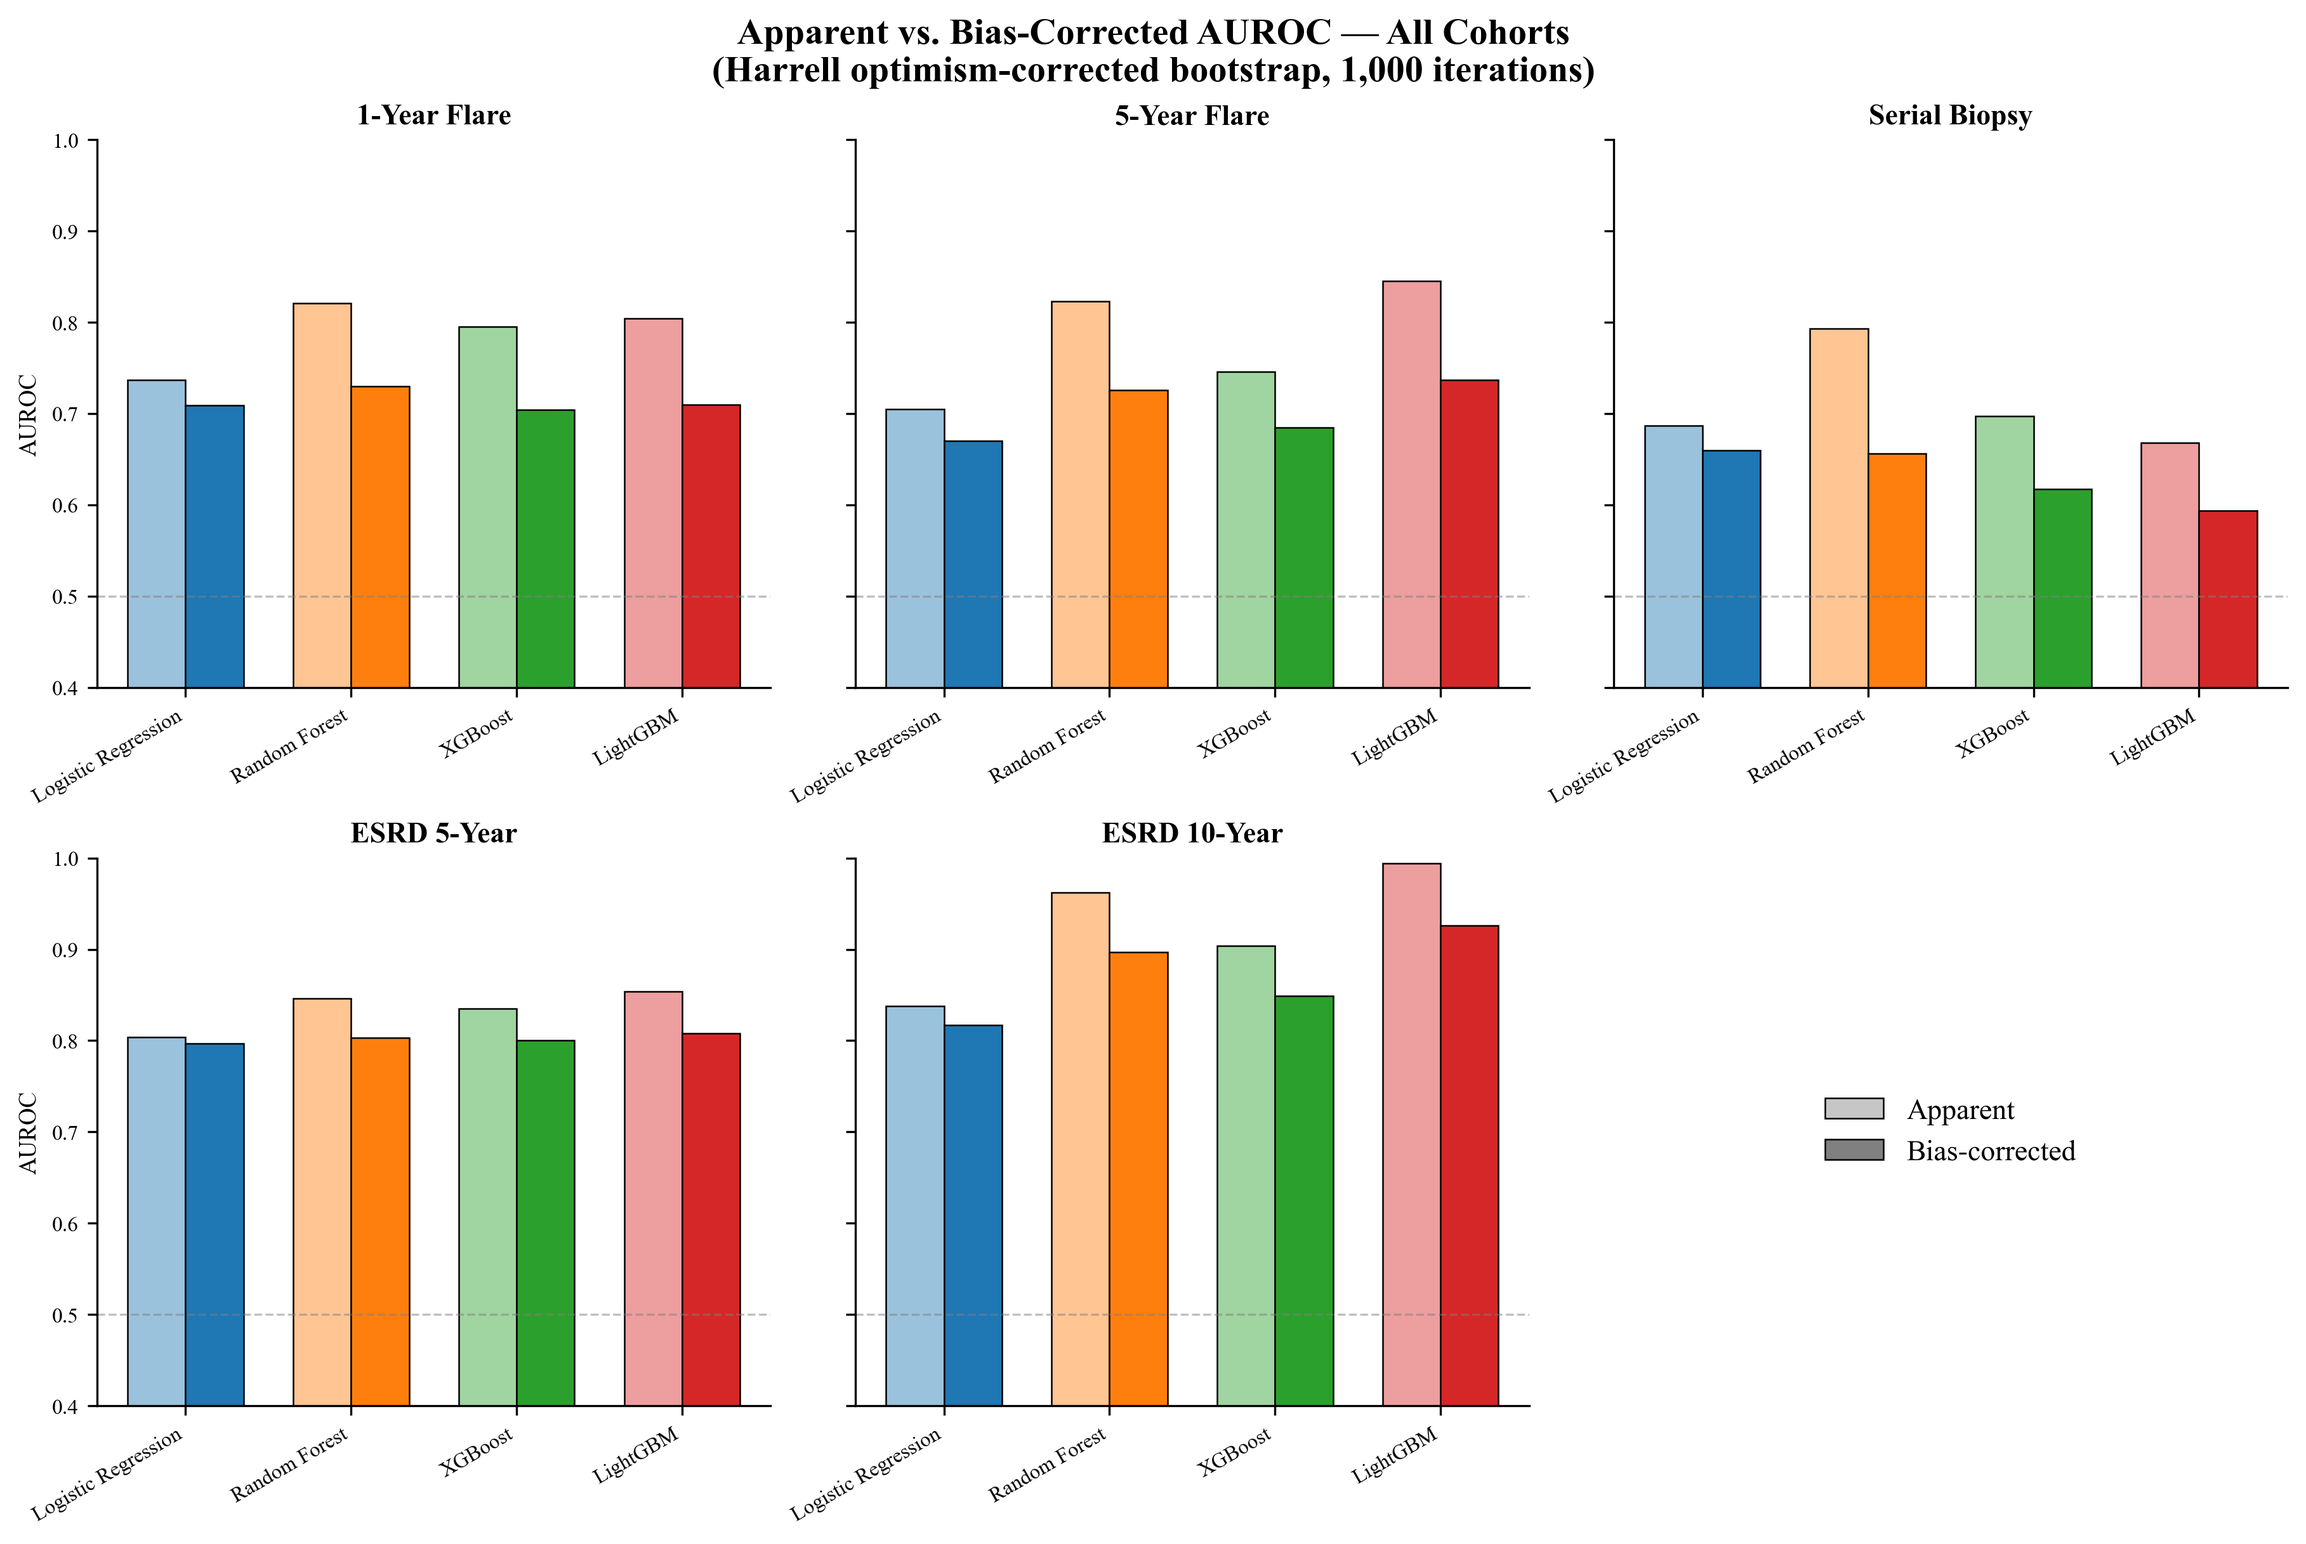
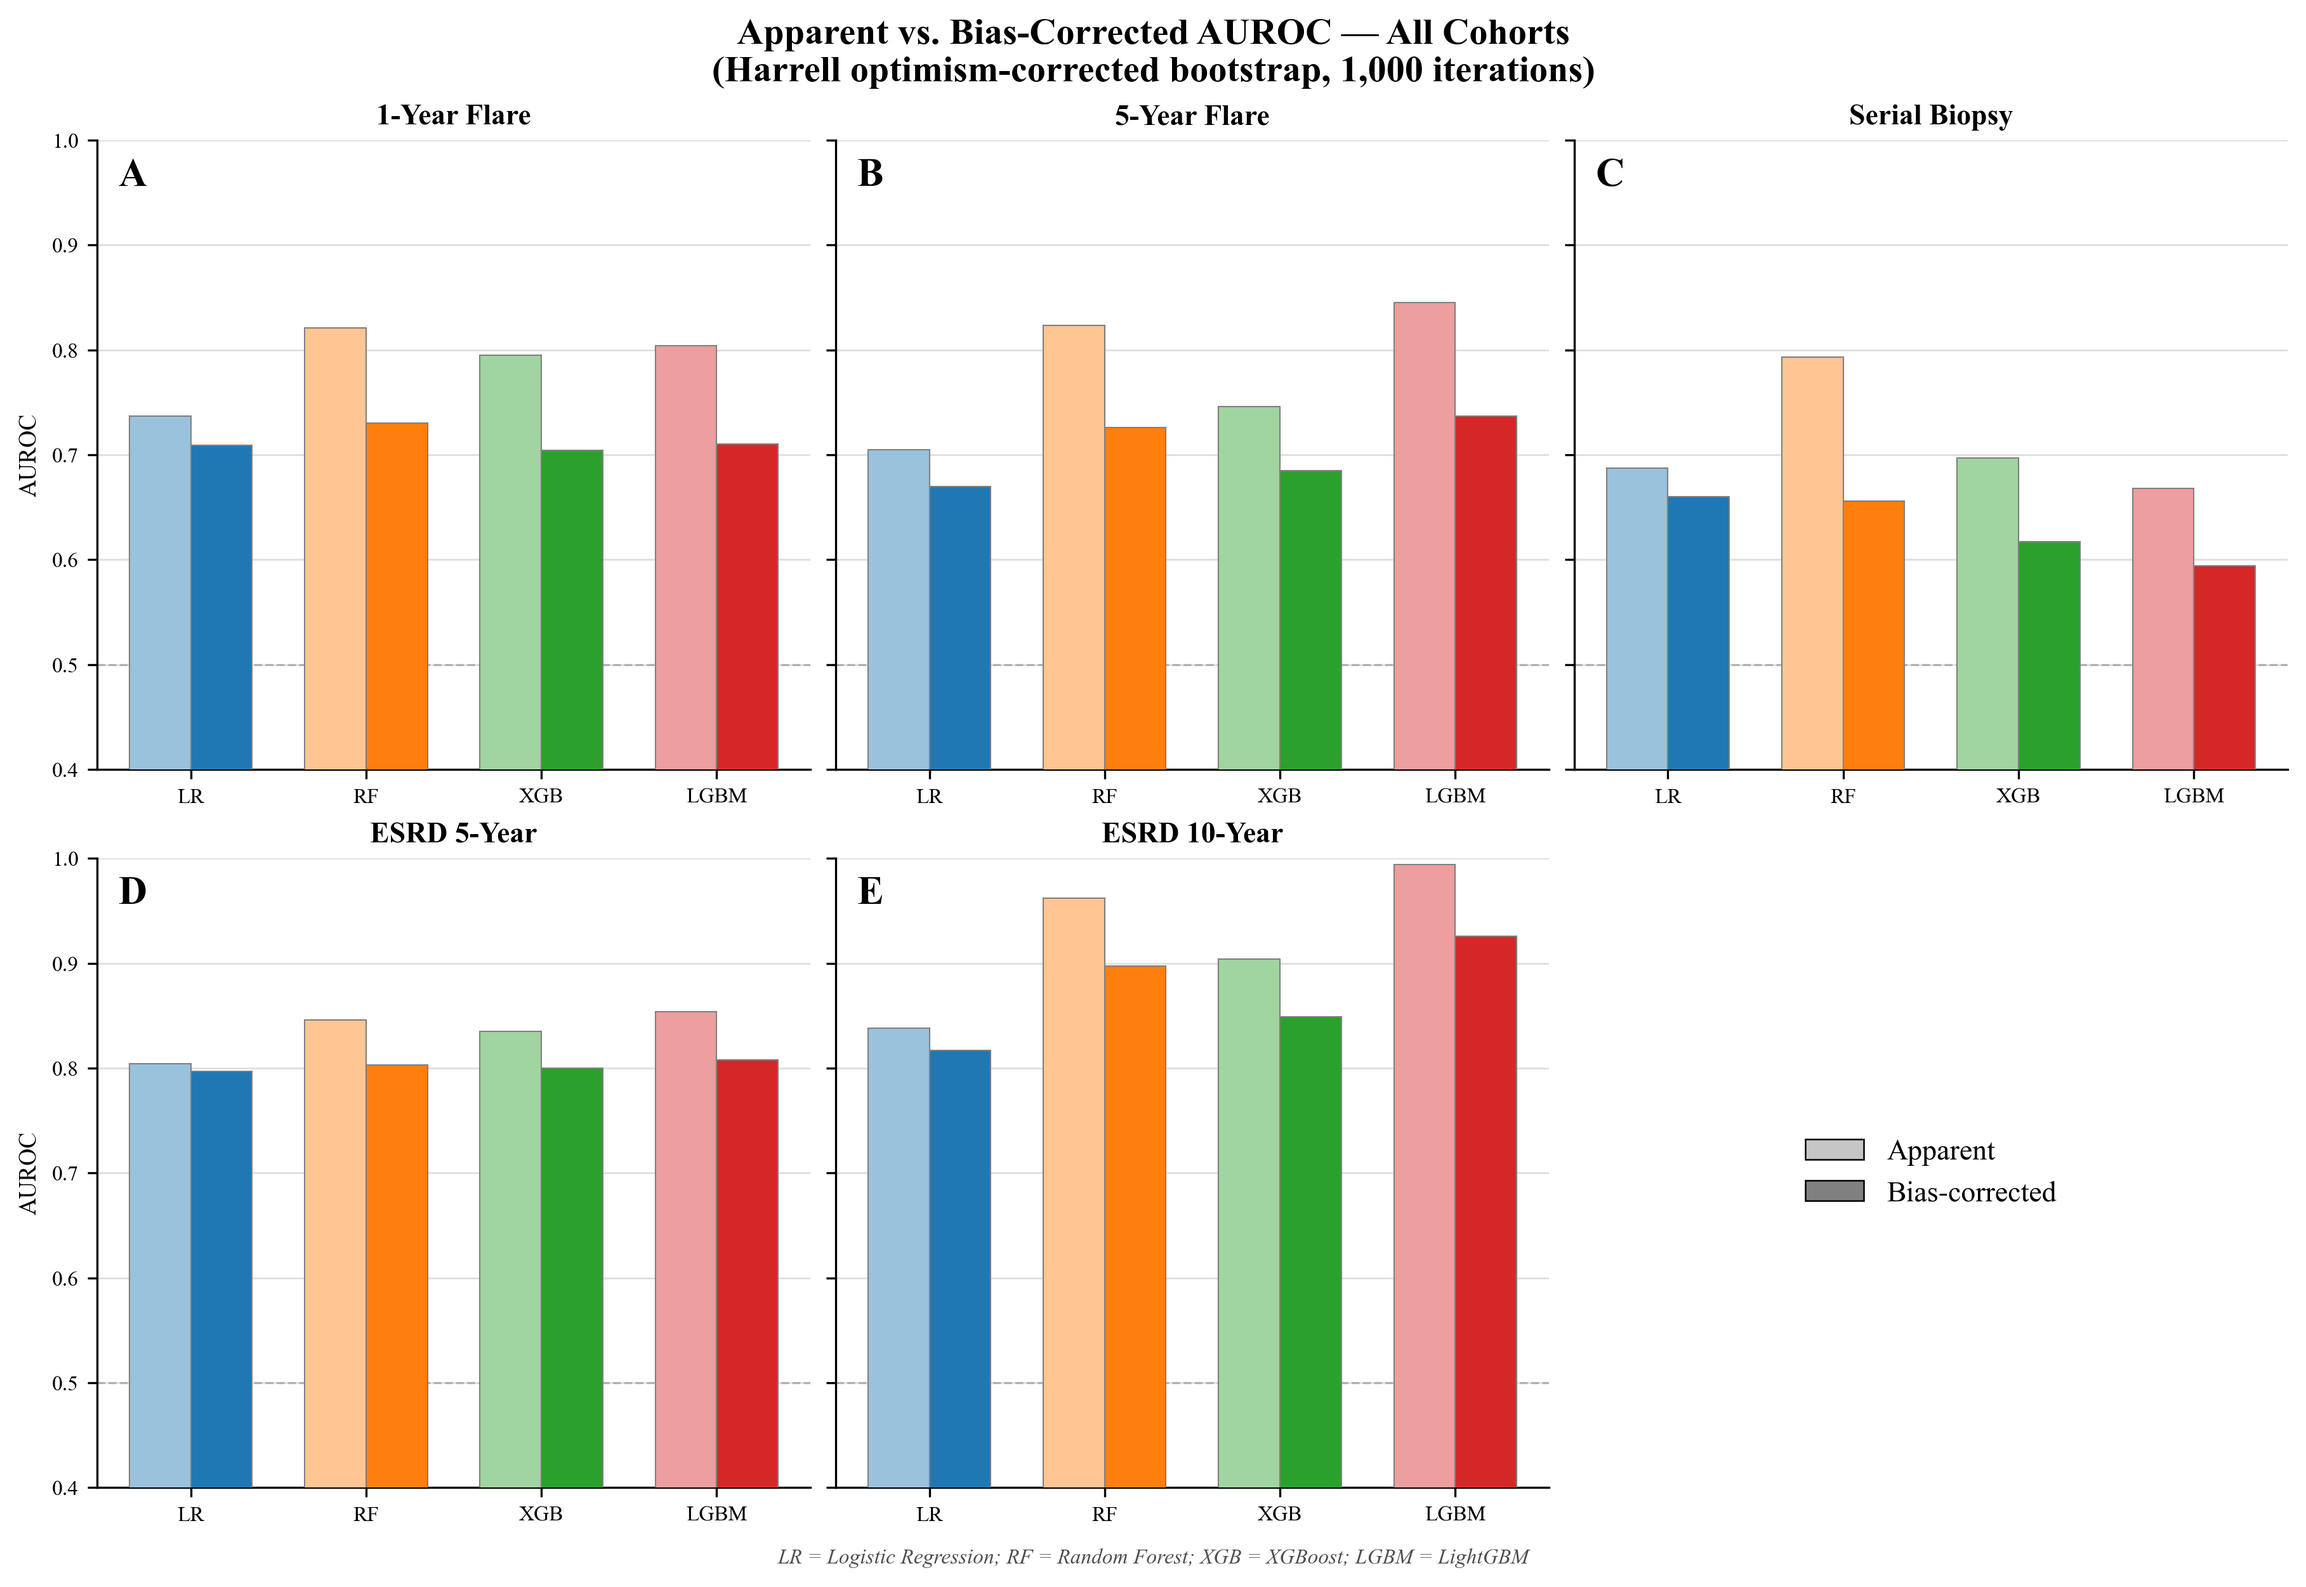
Journal-style refinements to optimism bar chart
- Bold panel letters (A-E), top-left of each subplot
- Bar outlines: black -> thin light-grey (0.5)
- X-tick labels abbreviated to LR/RF/XGB/LGBM, full names given once in
  a caption line (avoids crowding in the 3-column layout)
- Pale grey horizontal gridlines at each 0.1 AUROC increment, drawn
  behind the bars (zorder)
- (top/right spines were already removed from an earlier pass)

diff --git a/src/17_optimism_barchart.py b/src/17_optimism_barchart.py
@@ -43,6 +43,8 @@ MODEL_COLORS = {
     "LightGBM":            "#d62728",
 }
 MODEL_ORDER = list(MODEL_COLORS)
+MODEL_ABBR = {"Logistic Regression": "LR", "Random Forest": "RF", "XGBoost": "XGB", "LightGBM": "LGBM"}
+PANEL_LETTERS = ["A", "B", "C", "D", "E"]
 
 
 def lighten(hex_color, amount=0.55):
@@ -97,19 +99,27 @@ bar_w = 0.35
 for i, c in enumerate(cohorts):
     row, col = panel_position(i)
     ax = axes[row, col]
+    ax.set_axisbelow(True)
+    ax.grid(axis="y", which="major", color="0.88", linewidth=0.7, zorder=0)
+
     for j, name in enumerate(MODEL_ORDER):
         apparent, bc = c["data"][name]
         base = MODEL_COLORS[name]
-        ax.bar(x[j] - bar_w / 2, apparent, width=bar_w, color=lighten(base), edgecolor="black", linewidth=0.6)
-        ax.bar(x[j] + bar_w / 2, bc, width=bar_w, color=base, edgecolor="black", linewidth=0.6)
+        ax.bar(x[j] - bar_w / 2, apparent, width=bar_w, color=lighten(base),
+               edgecolor="0.5", linewidth=0.5, zorder=3)
+        ax.bar(x[j] + bar_w / 2, bc, width=bar_w, color=base,
+               edgecolor="0.5", linewidth=0.5, zorder=3)
 
     ax.set_xticks(x)
-    ax.set_xticklabels(MODEL_ORDER, rotation=30, ha="right", fontsize=8)
+    ax.set_xticklabels([MODEL_ABBR[m] for m in MODEL_ORDER], rotation=0, fontsize=9)
     ax.set_title(c["label"], fontsize=11, fontweight="bold")
     ax.set_ylim(0.4, 1.0)
-    ax.axhline(0.5, color="grey", linestyle="--", lw=0.8, alpha=0.5)
+    ax.set_yticks(np.arange(0.4, 1.01, 0.1))
+    ax.axhline(0.5, color="grey", linestyle="--", lw=0.8, alpha=0.5, zorder=2)
     ax.spines[["top", "right"]].set_visible(False)
     ax.tick_params(labelsize=8)
+    ax.text(0.03, 0.97, PANEL_LETTERS[i], transform=ax.transAxes, fontsize=15,
+            fontweight="bold", va="top", ha="left", zorder=5)
     if col == 0:
         ax.set_ylabel("AUROC", fontsize=9)
     else:
@@ -126,6 +136,8 @@ legend_ax.legend(handles=legend_handles, loc="center", fontsize=11, frameon=Fals
 
 fig.suptitle("Apparent vs. Bias-Corrected AUROC — All Cohorts\n(Harrell optimism-corrected bootstrap, 1,000 iterations)",
              fontsize=14, fontweight="bold")
+fig.text(0.5, -0.02, "LR = Logistic Regression; RF = Random Forest; XGB = XGBoost; LGBM = LightGBM",
+         ha="center", fontsize=8, style="italic", color="0.3")
 
 fig.savefig(f"{FIG_DIR}/optimism_barchart.png", dpi=300, bbox_inches="tight")
 plt.close(fig)
